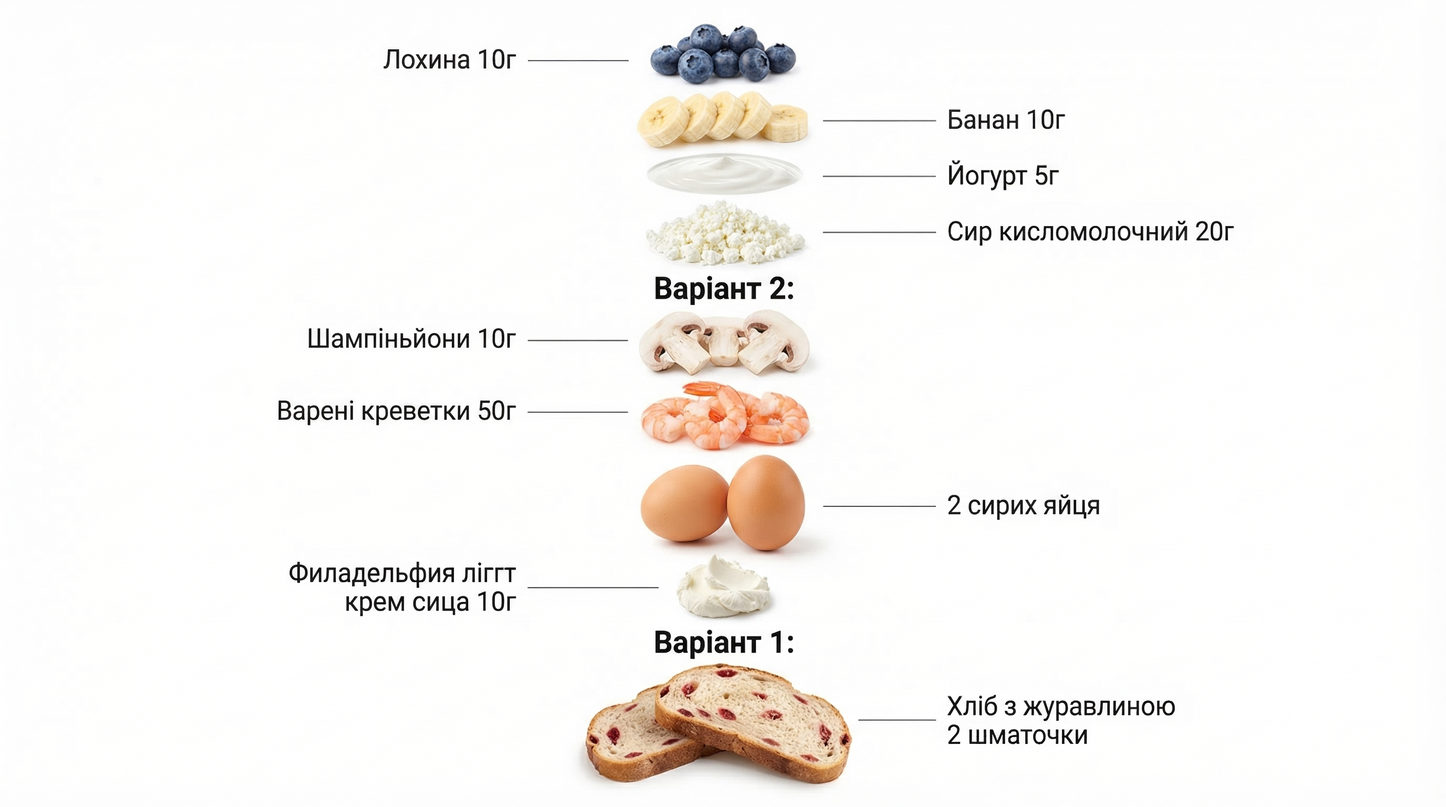
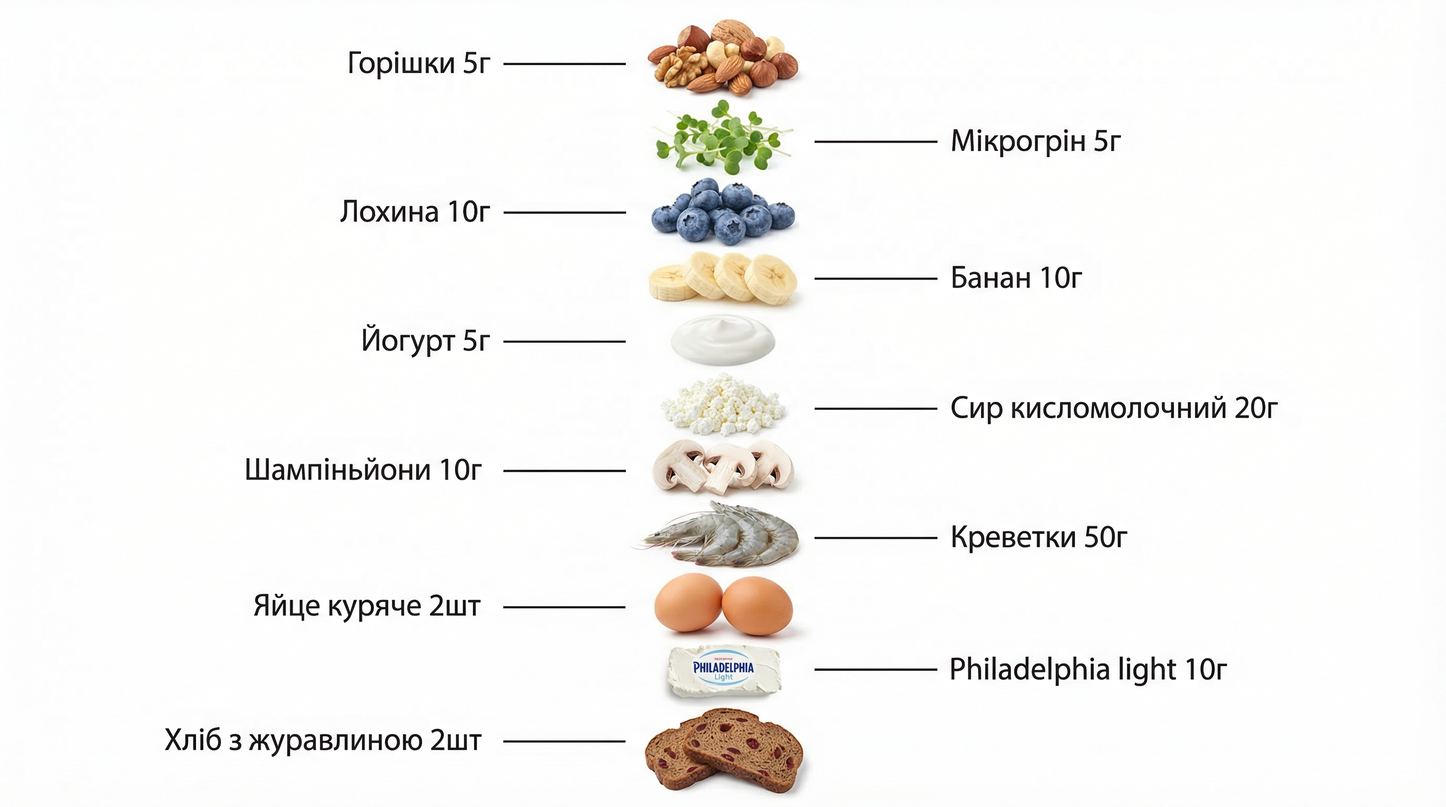
fix: breakfast_3 all raw ingredients image + text fixes

diff --git a/lib/recipe-loader.ts b/lib/recipe-loader.ts
@@ -2,7 +2,7 @@ import type { RecipeData } from "@/types/recipe"
 import recipesData from "@/data/recipes.json"
 
 // Cache-busting version - increment when updating images/videos
-const ASSET_VERSION = "v17"
+const ASSET_VERSION = "v18"
 
 /**
  * Loads and validates recipe data from recipes.json
